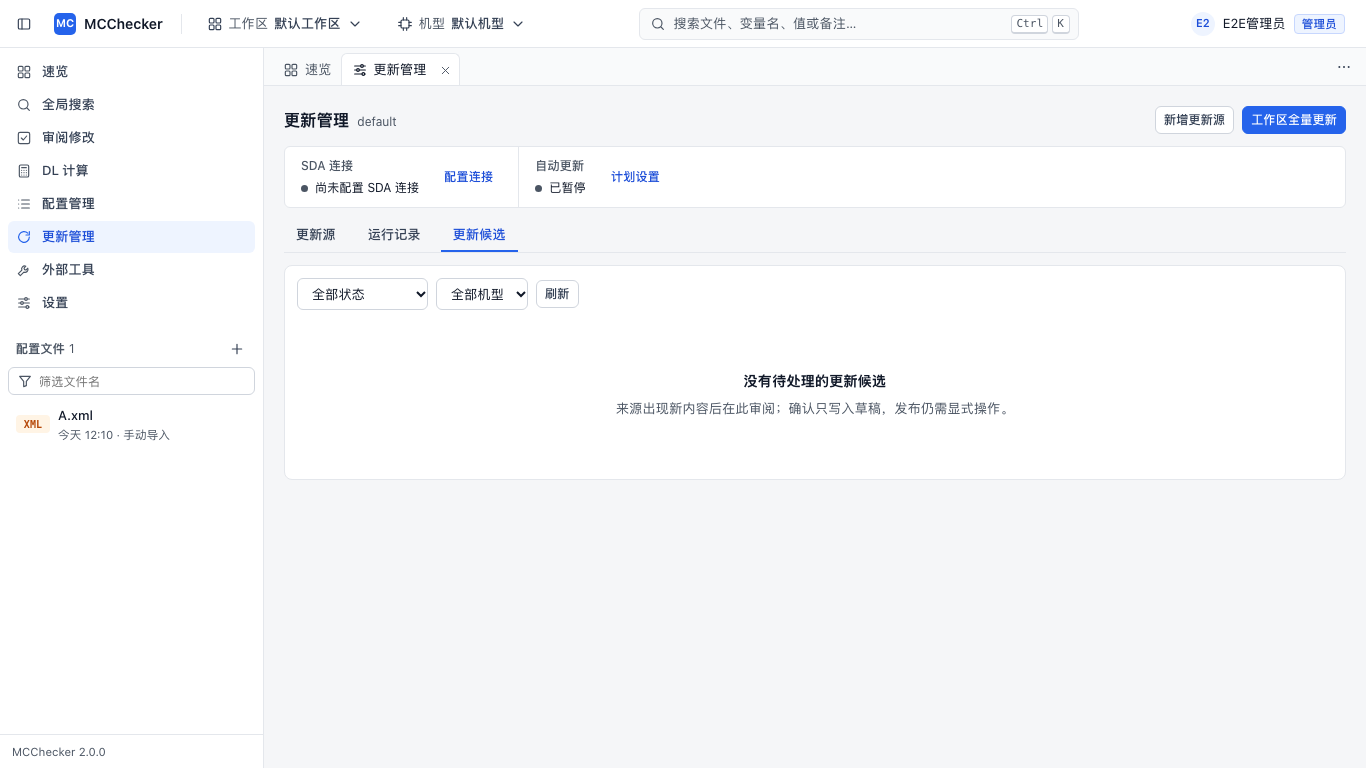
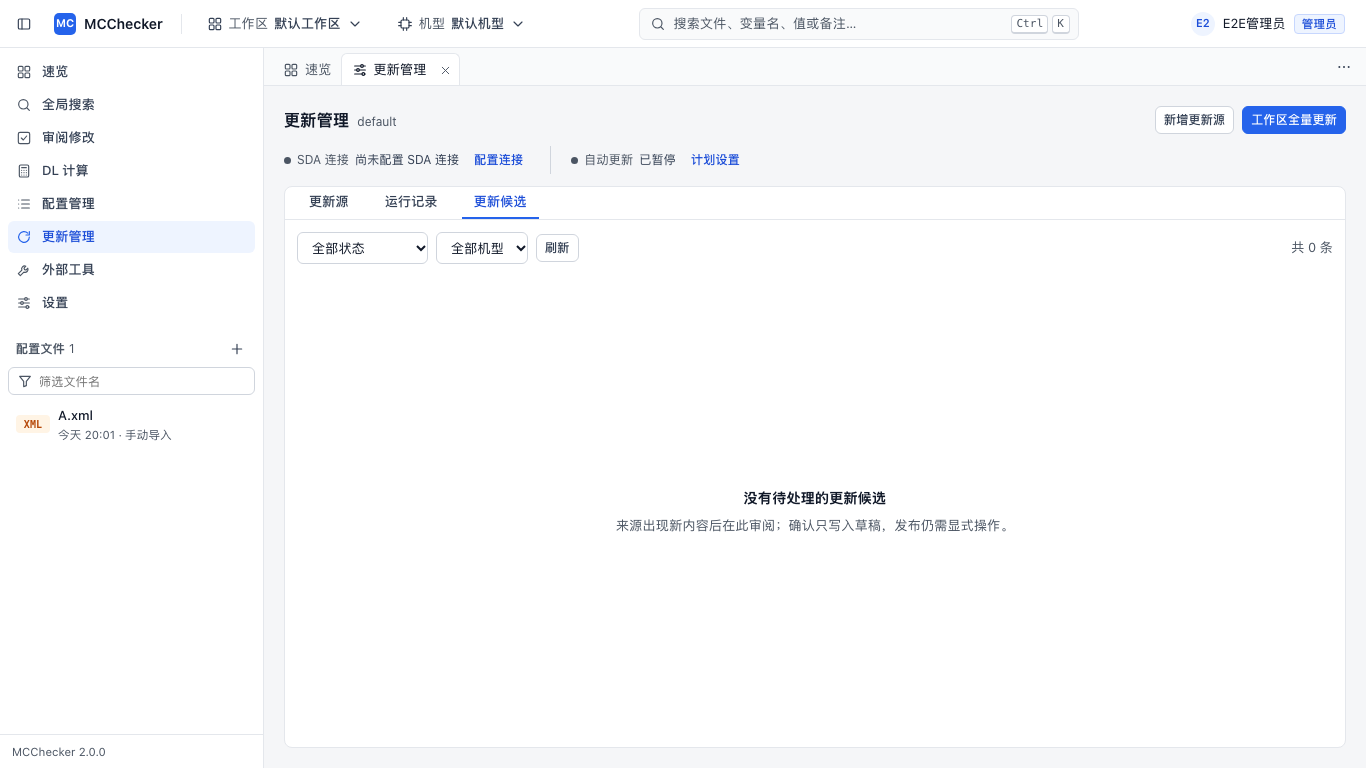
feat(ui): refine v3.1 workspace layout and panel hierarchy

diff --git a/app/web/assets/js/views/update_management.js b/app/web/assets/js/views/update_management.js
@@ -1596,7 +1596,7 @@
           h("div.row", { style: "gap:18px;flex-wrap:wrap;align-items:center" },
             h("label.row", { style: "gap:6px;align-items:center" },
               enabledInput, h("span", "启用自动更新")),
-            h("div.row", { style: "gap:6px;align-items:center" },
+            h("label.row.sync-plan-interval", { style: "gap:6px;align-items:center" },
               h("span.small.muted", "默认间隔"),
               intervalInput,
               h("span.small.muted", "小时")
@@ -1614,7 +1614,7 @@
       var pv = P.preview;
       var previewActions = h("div.row", { style: "gap:8px;flex-wrap:wrap;align-items:center" });
       if (save) {
-        previewActions.appendChild(h("button.btn.btn-primary", {
+        previewActions.appendChild(h("button.btn", {
           type: "button",
           "data-plan-preview": "1",
           disabled: P.previewing,
@@ -1647,10 +1647,10 @@
         var fingerprint = pv.read_set_sha256 ? String(pv.read_set_sha256).slice(0, 16) : "—";
         previewBody.appendChild(h("p.small", { "data-plan-read-set": pv.read_set_sha256 || "" },
           "冻结来源 " + (pv.total || 0) + " 个 · 排除 " + ((pv.excluded || []).length)
-          + " 个 · read_set " + fingerprint
+          + " 个 · 范围指纹 " + fingerprint
         ));
         previewBody.appendChild(h("p.xsmall.muted",
-          "失败筛选只影响本页显示；冻结 read_set 始终按 workspace_all 请求，不会缩成失败子集。"
+          "失败筛选只影响本页显示；冻结的更新范围始终包含所有机型下已启用的来源。"
         ));
         var rows = (pv.items || []).slice();
         if (P.failuresOnly) {
@@ -1658,13 +1658,13 @@
         }
         if (!rows.length) {
           previewBody.appendChild(h("p.muted.small", P.failuresOnly
-            ? "当前没有记录到失败来源；全量 read_set 仍包含上面的 " + (pv.total || 0) + " 个来源。"
+            ? "当前没有记录到失败来源；全量范围仍包含上面的 " + (pv.total || 0) + " 个来源。"
             : "预览中没有可用来源。"));
         } else {
           rows.forEach(function (item) {
             previewBody.appendChild(h("div.row", {
               "data-plan-preview-source": item.source_id,
-              style: "gap:10px;align-items:center;padding:4px 0;border-top:1px solid var(--border)",
+              style: "gap:10px;align-items:center;padding:4px 0;border-top:1px solid var(--c-border)",
             },
               h("span.small", item.name || item.source_id),
               h("span.xsmall.muted", (item.profile_id || "") + " · " + (item.schedule_mode || "inherit"))
@@ -1675,7 +1675,7 @@
         previewBody.appendChild(h("p.muted.small", "尚未预览；全量预览会冻结所有机型下已启用来源。"));
       }
       body.appendChild(h("div.card",
-        h("div.card-h", h("strong", "全量预览"), h("span.muted.small", "workspace_all")),
+        h("div.card-h", h("strong", "全量预览"), h("span.muted.small", "工作区所有机型")),
         previewBody
       ));
 
@@ -1683,7 +1683,7 @@
       var runBody = h("div.card-b");
       var runActions = h("div.row", { style: "gap:8px;flex-wrap:wrap;align-items:center" });
       if (run) {
-        runActions.appendChild(h("button.btn.btn-primary", {
+        runActions.appendChild(h("button.btn", {
           type: "button",
           "data-plan-run": "1",
           disabled: P.running,
@@ -1702,7 +1702,7 @@
           var task = entry.task || {};
           runBody.appendChild(h("div.row", {
             "data-plan-run-row": entry.workspace_id,
-            style: "gap:10px;align-items:center;padding:4px 0;border-top:1px solid var(--border)",
+            style: "gap:10px;align-items:center;padding:4px 0;border-top:1px solid var(--c-border)",
           },
             h("span.small", entry.profile_id),
             h("span.xsmall.muted", "工作区 " + entry.workspace_id),
@@ -1715,7 +1715,7 @@
         runBody.appendChild(h("p.muted.small", "尚未提交手动任务。"));
       }
       body.appendChild(h("div.card",
-        h("div.card-h", h("strong", "手动全量更新"), h("span.muted.small", "按机型分组投递 sync_run")),
+        h("div.card-h", h("strong", "手动全量更新"), h("span.muted.small", "按机型分组提交任务")),
         runBody
       ));
     }
@@ -2413,7 +2413,7 @@
         ));
       }
       if (S.loading && !S.items.length) {
-        body.appendChild(h("p.muted", "正在读取更新源…"));
+        body.appendChild(h("div.card", h("div.card-b", toolbar, h("p.muted.sync-loading", { role: "status" }, "正在读取更新源…"))));
         return;
       }
       if (S.error && !S.items.length) {
@@ -2545,8 +2545,13 @@
             h("th", headerBox), h("th", "配置 / 文件"), h("th", "更新来源 / 写入目标"),
             h("th", "更新计划"), h("th", "最近有效核验"), h("th", "来源状态"), h("th", "操作")
           )), tbody)),
-          S.next_cursor ? h("button.btn.btn-sm", { type: "button", onclick: function () { S.expanded = true; loadSources(false); } }, "加载更多") : null,
-          h("div.sync-table-note.muted.xsmall", "全量更新不受当前筛选条件影响")
+          h("div.sync-list-footer",
+            h("span.muted.xsmall", "全量更新不受当前筛选条件影响"),
+            h("div.row", { style: "gap:8px;align-items:center" },
+              h("span.muted.xsmall", "已加载 " + S.items.length + " / " + S.total),
+              S.next_cursor ? h("button.btn.btn-sm", { type: "button", onclick: function () { S.expanded = true; loadSources(false); } }, "加载更多") : null
+            )
+          )
         )
       ));
     }
@@ -2798,6 +2803,7 @@
       filter.addEventListener("change", function () { R.state = filter.value; loadRuns(true); });
       toolbar.appendChild(filter);
       toolbar.appendChild(h("button.btn.btn-sm", { type: "button", onclick: function () { loadRuns(true); } }, "刷新"));
+      if (!R.error && !R.loading) toolbar.appendChild(h("span.sync-result-count.muted.small", "共 " + R.total + " 条"));
       if (R.error) body.appendChild(h("div.form-error", R.error));
       if (R.loading && !R.items.length) {
         body.appendChild(h("div.card", h("div.card-b", toolbar, h("p.muted", "正在读取运行记录…"))));
@@ -2825,11 +2831,11 @@
         tbody.appendChild(row);
       });
       body.appendChild(h("div.card",
-        h("div.card-h", h("strong", "运行记录"), h("span.muted.small", "共 " + R.total + " 条")),
-        h("div.card-b", toolbar, h("table.table",
+        h("div.card-b", toolbar, h("div.sync-table-wrap", h("table.table.sync-run-table",
           h("thead", h("tr", h("th", "运行"), h("th", "触发"), h("th", "状态"), h("th", "计数"), h("th", "时间"))),
           tbody
-        ), R.next_cursor ? h("button.btn.btn-sm", { type: "button", onclick: function () { R.expanded = true; loadRuns(false); } }, "加载更多") : null)
+        )), h("div.sync-list-footer", h("span.muted.xsmall", "已加载 " + R.items.length + " / " + R.total),
+          R.next_cursor ? h("button.btn.btn-sm", { type: "button", onclick: function () { R.expanded = true; loadRuns(false); } }, "加载更多") : null))
       ));
     }
 
@@ -3363,6 +3369,7 @@
         type: "button", "data-sync-candidate-refresh": "1", onclick: function () { loadCandidates(true); },
       }, "刷新"));
 
+      if (!C.error && !C.loading) toolbar.appendChild(h("span.sync-result-count.muted.small", "共 " + C.total + " 条"));
       if (C.error) body.appendChild(h("div.form-error", C.error));
       if (C.loading && !C.items.length) { body.appendChild(h("div.card", h("div.card-b", toolbar, h("p.muted", "正在读取候选…")))); return; }
       if (C.error && !C.items.length) {
@@ -3433,16 +3440,16 @@
         cards.appendChild(card);
       });
       body.appendChild(h("div.card",
-        h("div.card-h", h("strong", "更新候选"), h("span.muted.small", "共 " + C.total + " 条 · 工作区 " + workspaceId())),
         h("div.card-b",
           toolbar,
           batchBar,
           h("label.row.sync-candidate-select-all", headerBox, h("span.small.muted", "选择当前已加载候选")),
-          cards,
+          h("div.sync-card-scroll", cards),
+          h("div.sync-list-footer", h("span.muted.xsmall", "已加载 " + C.items.length + " / " + C.total),
           C.next_cursor ? h("button.btn.btn-sm", {
             type: "button", onclick: function () { loadCandidates(false, true); },
           }, "加载更多") : null
-        )
+        ))
       ));
     }
 
@@ -3543,7 +3550,7 @@
         : (conn.name + (hb && hb.enabled ? " · 保活 " + (hb.interval_minutes || 10) + " 分钟" : " · 保活已关闭"));
       return h("div.sync-strip",
         h("div.sync-strip-group",
-          h("div.sync-strip-info", h("span.sync-strip-label", "SDA 连接"), h("span.sync-strip-status", h("span.sync-status-dot", { "aria-hidden": "true" }), connText)),
+          h("div.sync-strip-info", h("span.sync-status-dot", { "aria-hidden": "true" }), h("span.sync-strip-label", "SDA 连接"), h("span.sync-strip-status", connText)),
           h("button.btn.btn-sm.btn-ghost.sync-strip-action", {
           type: "button",
           "data-sync-connections": "1",
@@ -3551,7 +3558,7 @@
           }, conn ? "连接设置" : "配置连接")
         ),
         h("div.sync-strip-group",
-          h("div.sync-strip-info", h("span.sync-strip-label", "自动更新"), h("span.sync-strip-status", h("span.sync-status-dot" + (plan && auto ? ".is-active" : ""), { "aria-hidden": "true" }), plan ? (auto ? ("每 " + hours + " 小时") : "已暂停") : (state.plan.error ? "更新计划读取失败" : "正在读取更新计划…"))),
+          h("div.sync-strip-info", h("span.sync-status-dot" + (plan && auto ? ".is-active" : ""), { "aria-hidden": "true" }), h("span.sync-strip-label", "自动更新"), h("span.sync-strip-status", plan ? (auto ? ("每 " + hours + " 小时") : "已暂停") : (state.plan.error ? "更新计划读取失败" : "正在读取更新计划…"))),
           h("button.btn.btn-sm.btn-ghost.sync-strip-action", {
           type: "button",
           "data-sync-plan": "1",
@@ -3572,8 +3579,7 @@
         headActions
       ),
       stripHost,
-      tabbar,
-      body,
+      h("div.sync-workbench", tabbar, body),
       sheet
     ));
     renderTabs();

diff --git a/app/web/assets/css/views.css b/app/web/assets/css/views.css
@@ -7,33 +7,43 @@
 .sync-head { justify-content: space-between; }
 .sync-title { display: flex; align-items: baseline; gap: 8px; font-size: var(--fs-lg); }
 .sync-caption { color: var(--c-text-3); font-size: var(--fs-xs); }
-.sync-strip { gap: 0; border: 1px solid var(--c-border); border-radius: var(--r); background: var(--c-surface); font-size: var(--fs-xs); }
-.sync-strip-group { display: flex; align-items: center; gap: 16px; min-width: 0; padding: 10px 16px; }
-.sync-strip-group + .sync-strip-group { border-left: 1px solid var(--c-border); }
-.sync-strip-info { display: grid; gap: 4px; min-width: 0; }
-.sync-strip-label { color: var(--c-text-3); font-weight: var(--fw-medium); }
+.sync-strip { gap: 4px 20px; font-size: var(--fs-xs); color: var(--c-text-2); }
+.sync-strip-group { display: flex; align-items: center; gap: 8px; min-width: 0; }
+.sync-strip-group + .sync-strip-group { border-left: 1px solid var(--c-border-strong); padding-left: 20px; }
+.sync-strip-info { display: flex; flex-wrap: wrap; align-items: center; gap: 6px; min-width: 0; }
+.sync-strip-label { color: var(--c-text-3); white-space: nowrap; }
 .sync-strip-status { display: flex; align-items: baseline; gap: 7px; overflow-wrap: anywhere; }
 .sync-status-dot { flex: 0 0 7px; width: 7px; height: 7px; border-radius: 50%; background: var(--c-text-3); align-self: center; }
 .sync-status-dot.is-active { background: var(--c-success-text); }
-.sync-strip .sync-strip-action { color: var(--c-primary-text); flex: none; }
-.sync-subnav { border-bottom: 1px solid var(--c-border); }
+.sync-strip .sync-strip-action { color: var(--c-primary-text); flex: none; padding: 2px 6px; }
+.sync-workbench { display: flex; flex-direction: column; flex: 1; min-height: 200px; min-width: 0; background: var(--c-surface); border: 1px solid var(--c-border); border-radius: var(--r-lg); overflow: hidden; }
+.sync-subnav { flex: none; border-bottom: 1px solid var(--c-border); padding: 0 12px; gap: 12px; }
 .sync-subnav .btn { border: 0; border-bottom: 2px solid transparent; border-radius: 0; background: transparent; padding: 8px 12px; }
 .sync-subnav .btn-primary { color: var(--c-primary-text); border-bottom-color: var(--c-primary); background: transparent; }
-.sync-content { min-width: 0; }
+.sync-content { display: flex; flex-direction: column; flex: 1; min-height: 0; min-width: 0; overflow: hidden; }
 .sync-root .form-error, .sync-form-error { min-width: 0; overflow-wrap: anywhere; }
-.sync-content > .card { background: var(--c-surface); border: 1px solid var(--c-border); border-radius: var(--r-lg); }
-.sync-content > .card > .card-b { padding: 12px; }
+.sync-content > .card { display: flex; flex-direction: column; flex: 1; min-height: 0; min-width: 0; }
+.sync-content > .card > .card-b { display: flex; flex-direction: column; flex: 1; min-height: 0; min-width: 0; }
+.sync-content > .card > .card-b > :not(.sync-table-wrap):not(.sync-card-scroll):not(.sync-empty) { flex-shrink: 0; }
+.sync-content > .form-error { flex: none; margin: 12px; }
+.sync-content .sync-loading { margin: 24px 16px; }
 .sync-content > .card > .card-h,
 .sync-list-meta { display: flex; align-items: center; justify-content: space-between; gap: 8px; padding: 12px 12px 0; }
-.sync-content .sync-filters { margin-bottom: 12px !important; }
+.sync-content .sync-filters { padding: 12px; margin-bottom: 0 !important; }
 .sync-filters .input { width: auto; min-width: 0; max-width: 100%; font-size: var(--fs-sm); }
 .sync-filters input[type="search"] { flex: 1 1 220px; max-width: 360px; }
 .sync-filters select { flex: 0 1 auto; }
 .sync-result-count { margin-left: auto; white-space: nowrap; }
 .sync-table-note { padding-top: 12px; border-top: 1px solid var(--c-border); }
+.sync-content .sync-selection { margin: 0 12px 12px; }
 .sync-selection { background: var(--c-primary-soft); border: 1px solid var(--c-primary-border); border-radius: var(--r); padding: 8px 12px; }
 .sync-selection[hidden], .sync-sheet[hidden] { display: none; }
-.sync-table-wrap { width: 100%; overflow: auto; overscroll-behavior-x: contain; }
+.sync-table-wrap, .sync-card-scroll { flex: 1; min-height: 0; min-width: 0; overflow: auto; overscroll-behavior: contain; }
+.sync-table-wrap { width: 100%; }
+.sync-table-wrap thead { position: sticky; top: 0; z-index: var(--z-sticky); background: var(--c-surface-2); }
+.sync-run-table { min-width: 760px; table-layout: fixed; }
+.sync-run-table th:first-child { width: 32%; }
+.sync-list-footer { display: flex; align-items: center; justify-content: space-between; flex-wrap: wrap; gap: 8px; padding: 10px 12px; border-top: 1px solid var(--c-border); }
 .sync-page .table { font-size: var(--fs-sm); }
 .sync-source-table { min-width: 900px; table-layout: fixed; }
 .sync-source-table th:first-child { width: 32px; }
@@ -54,9 +64,9 @@
 .sync-long-text { min-width: 0; overflow-wrap: anywhere; }
 .sync-long-text summary { cursor: pointer; color: var(--c-primary-text); }
 .sync-long-text > :not(summary) { margin-top: 6px; color: var(--c-text-3); }
-.sync-empty { padding: 48px 16px; text-align: center; display: grid; gap: 8px; }
-.sync-candidate-select-all { margin: 0 0 12px; }
-.sync-candidate-cards { display: grid; grid-template-columns: repeat(2, minmax(0, 1fr)); gap: 12px; }
+.sync-empty { flex: 1; min-height: 140px; padding: 32px 16px; text-align: center; display: grid; align-content: center; gap: 8px; overflow: auto; }
+.sync-candidate-select-all { margin: 0 12px 12px; }
+.sync-candidate-cards { padding: 0 12px 12px; display: grid; grid-template-columns: repeat(2, minmax(0, 1fr)); gap: 12px; }
 .sync-candidate-card { min-width: 0; padding: 16px; border: 1px solid var(--c-border); border-radius: var(--r-lg); display: grid; align-content: start; gap: 8px; overflow-wrap: anywhere; }
 .sync-candidate-heading, .sync-candidate-foot { display: flex; align-items: center; gap: 8px; min-width: 0; }
 .sync-candidate-heading .badge, .sync-candidate-foot code { margin-left: auto; }
@@ -82,13 +92,17 @@
 .modal-backdrop:has(> .sync-source-dialog),
 .sync-sheet .modal-backdrop { padding: 0; align-items: stretch; justify-content: flex-end; }
 .sync-settings-dialog .modal-body, .sync-source-dialog .modal-body { flex: 1; overflow: auto; }
-.sync-sheet-card { display: grid; gap: 16px; min-width: 0; }
+.sync-sheet-card { display: grid; gap: 24px; min-width: 0; }
 .sync-sheet-card .card { min-width: 0; }
-.sync-sheet-card .card-h { display: flex; flex-wrap: wrap; gap: 8px; margin-bottom: 12px; }
+.sync-sheet-card > .card + .card { border-top: 1px solid var(--c-border); padding-top: 20px; }
+.sync-sheet-card .card-h { display: flex; align-items: baseline; flex-wrap: wrap; gap: 8px; margin-bottom: 12px; }
 .sync-sheet-card .card-b { display: grid; gap: 12px; min-width: 0; }
 .sync-sheet-card .table { display: block; overflow: auto; font-size: var(--fs-xs); }
+.sync-plan-interval { flex: none; }
+.sync-plan-interval > span { white-space: nowrap; }
+.sync-plan-interval > .input { width: 96px; }
 .sync-sheet-card code, .sync-source-dialog code { overflow-wrap: anywhere; }
-.sync-source-dialog .modal-body > .col > .card { border-block: 1px solid var(--c-border); padding-block: 16px; }
+.sync-source-dialog .modal-body > .col > .card { border-top: 1px solid var(--c-border); padding-top: 16px; }
 .sync-source-dialog .col > .row { flex-wrap: wrap; }
 .sync-source-dialog .col > .row > .col { flex: 1 1 180px; }
 .sync-page code, .sync-page .mono { font-family: var(--font-mono); }
@@ -99,7 +113,7 @@
   .sync-filters input[type="search"] { max-width: none; }
   .sync-list-meta { flex-wrap: wrap; }
   .sync-content > .card { overflow: hidden; }
-  .sync-content > .card > .card-b:has(> .table) { overflow: auto; }
+  .sync-strip-group + .sync-strip-group { border: 0; padding-left: 0; }
 }
 @media (max-width: 560px) {
   .sync-log-layout { grid-template-columns: minmax(0, 1fr); }
@@ -108,8 +122,7 @@
   .sync-head-actions { width: 100%; }
   .sync-head-actions .btn { flex: 1; min-height: 40px; }
   .sync-strip { display: grid; }
-  .sync-strip-group { justify-content: space-between; padding: 10px 12px; }
-  .sync-strip-group + .sync-strip-group { border-left: 0; border-top: 1px solid var(--c-border); }
+  .sync-strip-group { justify-content: space-between; }
   .sync-strip .sync-strip-action { min-height: 40px; }
   .sync-filters input[type="search"] { flex-basis: calc(100% - 64px); }
   .sync-filters select { flex: 1 1 100px; }

diff --git a/scripts/e2e_browser.py b/scripts/e2e_browser.py
@@ -949,13 +949,14 @@ class Runner:
               wrap.scrollLeft = wrap.scrollWidth;
               row.scrollIntoView({block: 'nearest', inline: 'nearest'});
               var p = page.getBoundingClientRect(), w = wrap.getBoundingClientRect(), r = row.getBoundingClientRect();
-              return {height: p.height, tableHeight: w.height, rowVisible: r.bottom <= p.bottom + 1 && r.top >= p.top - 1,
+              var footer = document.querySelector(".sync-list-footer").getBoundingClientRect();
+              return {tableTop: w.top, footerVisible: footer.top >= p.top && footer.bottom <= p.bottom + 1, height: p.height, tableHeight: w.height, rowVisible: r.bottom <= p.bottom + 1 && r.top >= p.top - 1,
                 horizontalEnd: wrap.scrollLeft + wrap.clientWidth >= wrap.scrollWidth - 1};
             })()""")
             shot = self.shoot("updates-sources-%s-admin" % viewport["id"].split("-")[-1])
             ok = (isinstance(overflow, (int, float)) and overflow <= 1 and geometry and
-                  geometry["height"] > 0 and geometry["tableHeight"] > 0 and
-                  geometry["rowVisible"] and geometry["horizontalEnd"])
+                  geometry["height"] > 0 and geometry["tableHeight"] >= 100 and geometry["footerVisible"] and
+                  (viewport["width"] != 1366 or geometry["tableTop"] < 300) and geometry["rowVisible"] and geometry["horizontalEnd"])
             self.report.append(
                 {
                     "id": "viewport-%s" % viewport["id"],
@@ -1179,11 +1180,11 @@ class Runner:
                 notes.append("%s %s" % (viewport["id"], geometry))
             b.call("Emulation.setDeviceMetricsOverride", width=375, height=812, deviceScaleFactor=1, mobile=True)
             b.call("Emulation.setTouchEmulationEnabled", enabled=True, maxTouchPoints=1)
-            b.eval("document.querySelector('.sync-page').scrollTop=0")
+            b.eval("document.querySelector('.sync-table-wrap').scrollTop=0")
             b.call("Input.synthesizeScrollGesture", x=180, y=700, yDistance=-400, speed=800, gestureSourceType="touch")
-            if not b.wait_for("document.querySelector('.sync-page').scrollTop>10", timeout=5):
+            if not b.wait_for("document.querySelector('.sync-table-wrap').scrollTop>10 && document.querySelector('.sync-page').scrollTop===0", timeout=5):
                 raise AssertionError("移动触摸滑动未滚动长列表")
-            notes.append("移动触摸滑动可滚动长列表")
+            notes.append("移动触摸滑动仅滚动数据区，页面工具栏保持可见")
             point = b.eval("""(function(){var s=document.querySelector('details[data-sync-long-path] summary');s.scrollIntoView({block:'center',inline:'center'});var r=s.getBoundingClientRect(),x=r.left+r.width/2,y=r.top+r.height/2,h=document.elementFromPoint(x,y);return {x:x,y:y,hit:!!h&&(h===s||s.contains(h))}})()""")
             if not point or not point["hit"]:
                 raise AssertionError("长路径展开入口被遮挡：%s" % point)

diff --git a/docs/M16_R6_UI_AUDIT.md b/docs/M16_R6_UI_AUDIT.md
@@ -18,3 +18,21 @@
 候选逐项冲突存在基线选择缺口：当前界面只提交 `config_id` 和 `draft_id`，未提交 `base_revision_id`。实测未冻结草稿时 API 默认将当前草稿作为基线，基线 1、当前 2、候选 3 的测试若不指定基线会得到“采用新值”；显式指定已冻结的基线 1 才产生冲突并可执行 `use_new`。接口支持该可选参数，但目前缺少用户已确认的基线来源/选择规则，不能猜测并自动传入；因此真实 API 冲突决议与合成界面决议分开记录，不宣称完整界面端到端通过。本次按计划停止该项扩展。
 
 本地回归（当前未提交工作树）：`./.venv39/bin/python scripts/check_web_ui.py --retries 1` 为 135/135；`MCC_E2E_EVIDENCE_DIR=/tmp/mcc-r6-contract-full ./.venv39/bin/python scripts/e2e_browser.py --only all --report /tmp/mcc-r6-contract-full.json` 为交互 38/38、旧路由可达 28/28、真实 API 契约 1/1；`./.venv39/bin/python -m pytest -q tests/test_e2e_scenarios.py` 为 8/8。浏览器使用隔离数据根；候选多视口场景使用合成 API 响应，不代表真实 SDA 链路通过。
+
+
+## 第二轮整体优化（2026-11-05）
+
+用户确认独立预览方向后实施：压缩连接/自动计划摘要，将三页签与筛选、局部滚动数据区和底部加载区合成统一白色工作面；运行记录与候选删除重复分区标题，保留真实总量和已加载量。来源、计划、连接面板使用分隔线区分任务；计划保存、预览和手动运行分清操作层级。原 API、游标分页、字段、批量操作、权限、草稿、CAS 与任务归属保持原有契约。共享组件和全局 tokens 没有修改。
+
+来源加载状态保留筛选入口。表头固定，长列表只滚动数据区；测试增加桌面表格顶边、最小有效数据高度、底部操作可见及触屏局部滚动断言，未放宽旧的末项/横向末端可达断言。
+
+| 视口 | 来源表格顶边 | 数据区高 | 末项/横向末端/底部操作 | 页面横向溢出 |
+| --- | ---: | ---: | --- | ---: |
+| 1366×768 | 276px | 432px | 均可达 | 0 |
+| 1920×1080 | 276px | 744px | 均可达 | 0 |
+| 768×1024 | 295.5px | 676.5px | 均可达 | 0 |
+| 375×812 | 472px | 288px | 均可达 | 0 |
+
+本轮使用项目既有真实服务浏览器脚本和隔离数据执行。截图在 `docs/evidence/m16-40/` 更新；浏览器手动控制因 Work 设置关闭而不可用，既有 CLI 浏览器测试可运行。所有外部 SDA、真实触屏设备、Windows/Linux 实机以及此前列明的 API 限制仍按上文保留。
+
+确认回归：`./.venv39/bin/python scripts/check_web_ui.py --retries 1` 135/135；`./.venv39/bin/python -m pytest -q tests/test_e2e_scenarios.py` 8/8；`./.venv39/bin/python scripts/e2e_browser.py --only all --report /tmp/mcc-r6-round2-confirm.json` 交互 38/38、旧路由可达 28/28、API 契约 1/1。最终截图中默认间隔标签已保持单行。检查覆盖长数据、合成错误注入与重试、只读/撤权、嵌套弹窗焦点、工作区切换和真实 409；不代表真实 SDA 或全部旧功能的完整交互验收。

diff --git a/DESIGN.md b/DESIGN.md
@@ -4,8 +4,8 @@
 
 以 INH-2165 的 R6 HTML 为视觉与交互目标（SHA-256 `88eca2ce…984db82`），服务端行为遵循配套设计说明。沿用浅灰页面、白色数据面、蓝色操作与现有中文系统字体、语义 tokens 和原生 JS，不新增组件库。
 
-- 层级：紧凑标题与主动作 → 连接/计划摘要 → 更新源、运行记录、更新候选三个页签 → 筛选 → 数据。
-- 桌面筛选横向排列、窄屏回流；表格仅在自身容器横向滚动，长路径可读且不撑开页面。1366×768 下更新源表头应在首屏上部（目标 y < 340），核心数据不被多行全宽筛选挤下。
+- 层级：紧凑标题与主动作 → 单行连接/计划摘要 → 白色工作面中的三个页签、筛选、数据和底部加载区。摘要在窄屏回流，不额外套卡片。
+- 桌面筛选横向排列、窄屏回流；表格仅在自身容器横向滚动，长路径可读且不撑开页面。1366×768 下更新源表头应在首屏上部（目标 y < 300），核心数据不被多行全宽筛选挤下。
 - 更新源默认按当前机型由服务端筛选，可切换全部机型；切换范围清除旧选择，晚到响应不能覆盖当前范围。更新时间排序仅作用于已加载项，并在控件中明确标注。工作区全量更新始终不受此筛选影响。
 - 更新源操作保持可发现；批量操作仅在选择后出现。空结果与未创建分别提供恢复提示，失败保留重试入口。
 - 超长来源名称和路径默认以摘要保持列表密度，原生展开控件提供完整文本，支持键盘和触摸；错误信息须在窄屏对无断点文本换行。
@@ -15,3 +15,6 @@
 实施范围为更新管理视图和局部样式。文件、配置管理、审阅、DL、全局 shell、权限、API、持久格式及 D0/Bn/rn 发布行为保持现有契约。复用现有 modal、按钮、字段、图标及 tokens；不全局补写缺失的 `.card` 样式，不传播到其他视图。
 
 验收使用现有前端单测页及真实服务浏览器脚本；另查 1366×768、768×1024、375×812 的实际内容高度、表格末项、面板关闭/焦点、只读和错误恢复。合成数据仅证明界面及 API 接线，不代表真实 SDA 验收。
+
+- 白色工作面填充可用高度；来源和运行表格在局部容器横纵滚动，表头固定，筛选与底部加载区留在容器外；候选卡片在独立内容区滚动。保留真实游标“加载更多”，不以静态页码替代服务端契约。
+- 面板用分隔线与间距区分计划、预览和手动运行；保存计划为主按钮，预览与手动运行为次按钮。范围、指纹和任务归属用用户可理解的名称表达。只调整 sync 局部组合，不修改共享 modal、全局 tokens 或其他视图。

diff --git a/docs/know-how.md b/docs/know-how.md
@@ -169,3 +169,4 @@
 - **来源冲突恢复不能调用不存在的单条 GET**：当前 API 只提供分页列表与 PATCH/DELETE；按稳定 ID 在相同 `query_revision` 的列表页查找，版本变化、分页循环或来源删除均停止恢复。展示服务端和草稿差异、明确确认后才采用最新 revision；再次保存仍由 CAS 防并发覆盖。
 - **共享弹窗焦点边界必须基于可见控件**：条件隐藏、禁用或 inert 子树不参与 Tab 循环；只有当前最上层弹窗可处理键盘和执行延迟初始聚焦，关闭后旧计时器不得抢焦点。
 - **运行事件接口每页最多返回 200 条**：详情按 `after_seq` 增量读取，分页失败应保留已显示事件；诊断导出需要逐页读取，达到 20000 条保护上限时必须标明可能不完整，不能把首屏当成全部日志。
+- **更新管理的长列表滚动发生在数据区**：`.sync-table-wrap` / `.sync-card-scroll` 承担局部滚动，筛选和游标加载区不随数据滚走。触屏回归须检查实际数据区的 `scrollTop` 和末项，不能继续用 `.sync-page.scrollTop` 作为滚动成功依据；窄屏也须测量数据区非零高度、固定表头与底部操作可达性。
